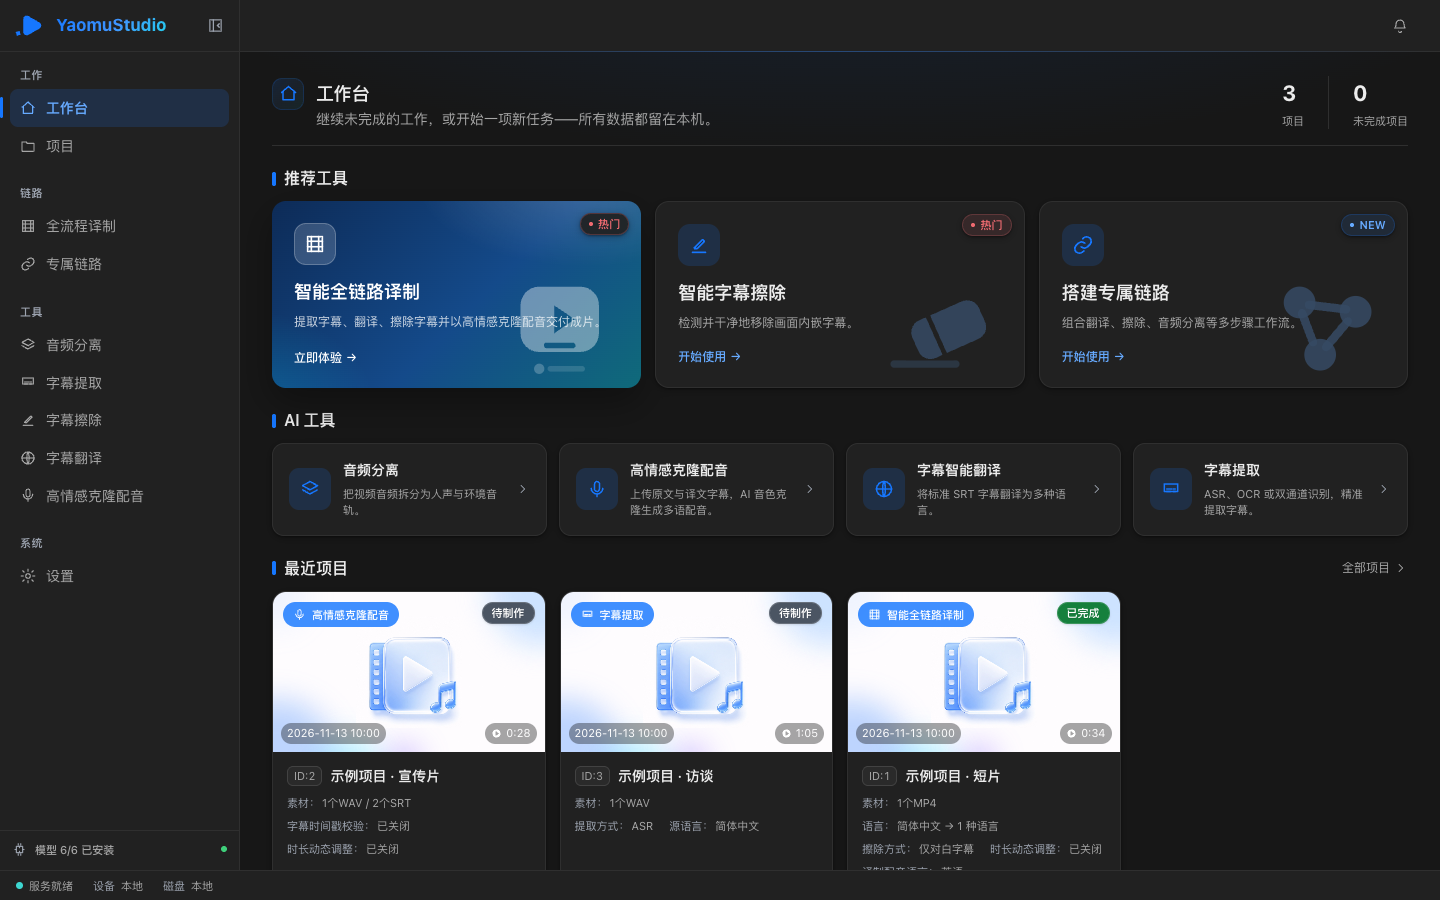
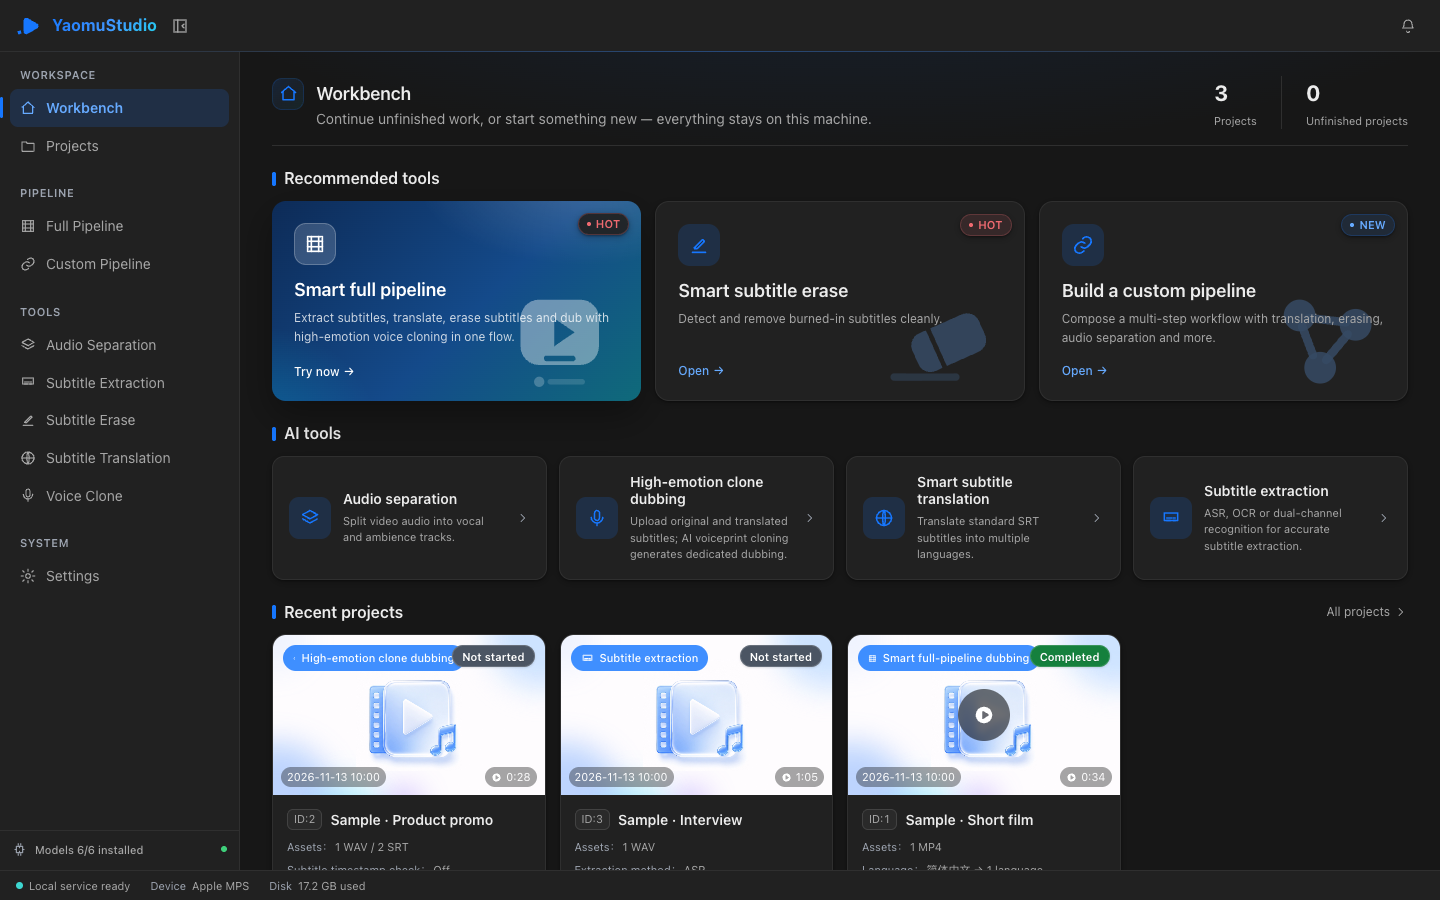
fix(readme): 英文 README 改用英文界面截图
README.md 面向英文读者，但引用的工作台截图是中文界面。重新以
locale=en 捕获深色/浅色工作台截图并替换；中文 README 继续使用中文
截图，文件改为 workbench-zh-*.png，并同步更新 README 资产检查与
公开镜像的图片白名单。

截图来自带 E2E 夹具的 UI 开发服务器，1440x900，内容为演示项目。
验证：npm run test:readme、test:release-workflow、test:public-mirror。

diff --git a/README.zh-CN.md b/README.zh-CN.md
@@ -21,8 +21,8 @@
 它适合需要翻译字幕、保留原说话人音色做配音、擦除画面内嵌字幕，或在受限网络环境中继续处理已准备项目的场景。
 
 <picture>
-  <source media="(prefers-color-scheme: dark)" srcset="assets/readme/workbench-dark.png">
-  <img src="assets/readme/workbench-light.png" alt="YaomuStudio 工作台">
+  <source media="(prefers-color-scheme: dark)" srcset="assets/readme/workbench-zh-dark.png">
+  <img src="assets/readme/workbench-zh-light.png" alt="YaomuStudio 工作台">
 </picture>
 
 <p align="center"><sub>工作台 · 演示数据</sub></p>
